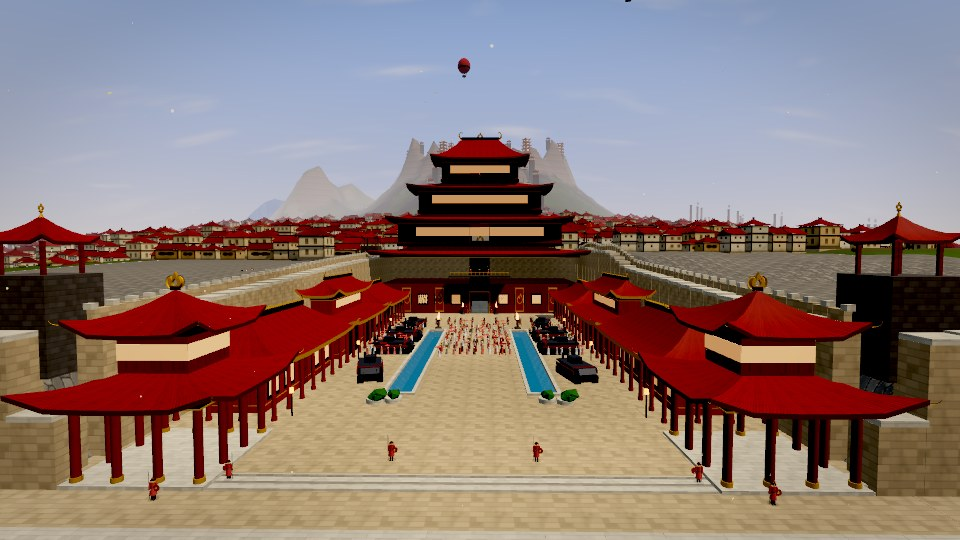
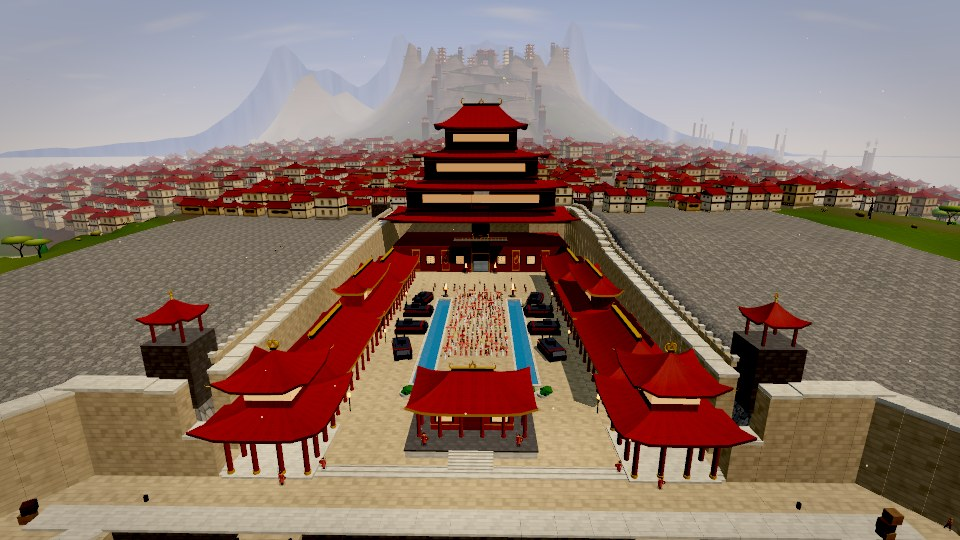
Fire Nation capital: match the reference frames more closely
- Royal Plaza: the smaller gatehouse on its stone platform is back at the harbour end between the
  gate pavilions (series frame); the rally crowd packs the central lane between the pools first,
  the side lanes only take the overflow
- The volcano: rock and ash only on the upper flanks under the peaks; the lower slopes stay green
  (series aerial of the crater)
- Life: children among civilians and workers (families in Zoryu Park, kids in the lanes); at dawn
  Hari Bulkan's nobles gather in the palace courtyard facing the entrance; stall keepers sweep at
  opening time; food carts stay out into the night; CONFIG.npcs now scales the whole cast and
  CONFIG.tanks documents the two-lane limit
- Screenshots re-shot: plaza from the harbour end with and without a rally, Zoryu Park, the
  switchback road, the Hari Bulkan overview; region-fire e2e 16/16

Claude-Session: https://claude.ai/code/session_01K1qhmqdEa64kNkhqVcSUWK

diff --git a/src/world/regions/fire/fnc/life.ts b/src/world/regions/fire/fnc/life.ts
@@ -346,13 +346,15 @@ export class CapitalLife {
     // Outer lanes at |t| 20.1: clear of the tanks' turning sweep (≤ 19.2) and the halls (21).
     const cols = [-20.1, -10, -5, 0, 5, 10, 20.1];
     const P = PLAZA;
+    // The gatehouse platform at the harbour end (18 × 15 m round the hall).
+    const inGatehouse = (t: number, s: number) => Math.abs(t) < P.gatehouse.w / 2 + 3.8 && s > P.gatehouse.s - P.gatehouse.d / 2 - 3.8 && s < P.gatehouse.s + P.gatehouse.d / 2 + 3.8;
     const inPool = (t: number, s: number) => Math.abs(t) > P.poolIn - 1.2 && Math.abs(t) < P.poolOut + 1.2 && s > P.poolS0 - 1.2 && s < P.poolS1 + 1.2;
     const grid = new Map<string, number>();
     const rows: number[] = [];
     for (let s = 560; s <= 652; s += 6) rows.push(s);
     for (const s of rows) {
       for (const t of cols) {
-        if (inPool(t, s)) continue;
+        if (inPool(t, s) || inGatehouse(t, s)) continue;
         const p = ax(t, s);
         const id = nav.addNode(p.x, p.z, T.street | T.square | T.patrol | Z.plaza, 0.4);
         this.width.set(id, Math.abs(t) > 20 ? 0.5 : 2.4);
@@ -532,6 +534,8 @@ export class CapitalLife {
       this.est.set(id, s > FNC.ringR + 1 ? Y : s > FNC.ringR - 2 ? gateY : gateY + (CY - gateY) * k);
     }
     for (const side of [-1, 1]) this.poi(ax(side * 4.5, 18).x, ax(side * 4.5, 18).z, T.square | Z.palace, side > 0 ? -Math.PI / 2 : Math.PI / 2, 6, CY);
+    // Dawn audience spots facing the palace entrance.
+    for (const t of [-5, -2.5, 0, 2.5, 5]) for (const s of [15, 19, 23]) this.poi(ax(t, s).x, ax(t, s).z, T.palace | Z.palace, Math.PI, 7, CY);
     void PF;
 
     // Zone node lists (street nodes only) for spawning.
@@ -620,6 +624,12 @@ export class CapitalLife {
       px: NaN, py: 0, pz: 0, pyaw: 0, goal: -1, gx: 0, gy: 0, gz: 0, gyaw: 0, toGoal: false, reloc: false, squad: -1, callT: 3 + r() * 8, greet: 0, delay: r() * 0.6, visible: false,
     };
     if (klass === 'noble' && r() < 0.3) a.scale *= 1.03;
+    if ((klass === 'civilian' || klass === 'worker') && (role === 'walker' || role === 'sitter') && r() < (zone === 'park' ? 0.4 : 0.16)) {
+      // A child: smaller, quicker, bareheaded or a little topknot.
+      a.scale = 0.6 + r() * 0.12;
+      a.speed = 1.3 + r() * 0.5;
+      a.acc = r() < 0.5 ? Acc.none : FAcc.topknot;
+    }
     return a;
   }
 
@@ -653,7 +663,8 @@ export class CapitalLife {
       const nodes = this.zoneNodes.get(zone)!;
       if (!nodes.length) continue;
       let guardK = 0;
-      for (const [role0, klass, count] of LIFE.cast[zone]) {
+      for (const [role0, klass, count0] of LIFE.cast[zone]) {
+        const count = Math.round((count0 * CONFIG.npcs) / 440);
         for (let k = 0; k < count; k++) {
           let role = role0;
           if (role === 'seller' && zone === 'market' && !sellers.length) role = 'shopper';
@@ -799,11 +810,10 @@ export class CapitalLife {
     const slots = this.rally.slots;
     for (const s of [576.5, 580]) for (let t = -13.5; t <= 13.51; t += 3) slots.push({ ...atAxis(t, s), y: PLAZA.y, yaw: Math.PI, troop: true });
     const civ: Array<{ t: number; s: number }> = [];
-    for (let s = 585; civ.length < LIFE.rally.crowd + 60 && s < 642; s += 2.3) {
-      for (let t = -6.25; t <= 6.26; t += 1.25) civ.push({ t, s });
-      if (s < 632) for (const side of [-1, 1]) for (let k = 0; k < 6; k++) civ.push({ t: side * (13.2 + k * 1.2), s });
-    }
-    civ.sort((a, b) => a.s - b.s);
+    for (let s = 584; s < 636.5; s += 1.75) for (let t = -6.3; t <= 6.31; t += 1.05) civ.push({ t, s });
+    // More than the central lane holds: the overflow lines the side lanes (tanks hold at the ends).
+    for (let s = 584; civ.length < LIFE.rally.crowd + 60 && s < 632; s += 2) for (const side of [-1, 1]) for (let k = 0; k < 5; k++) civ.push({ t: side * (13.4 + k * 1.3), s });
+    // (Central lane first, front rows first; the side lanes only take the overflow.)
     for (const c of civ) {
       const t = c.t + (r() - 0.5) * 0.3, s = c.s + (r() - 0.5) * 0.4;
       slots.push({ ...atAxis(t, s), y: PLAZA.y, yaw: Math.PI + (r() - 0.5) * 0.3, troop: false });
@@ -858,6 +868,13 @@ export class CapitalLife {
 
   private decide(a: Agent, h: number): void {
     if (a.role === 'sage' || a.squad >= 0 && this.squads[a.squad].members[0] !== a.i) return;
+    // Dawn: Hari Bulkan's nobles gather in the palace courtyard to glimpse the Royal Family.
+    if (a.klass === 'noble' && a.zone === 'caldera' && h >= 5.5 && h < 7.5 && a.stay < 0.6) {
+      a.roam = Z.caldera | Z.palace;
+      const spot = this.pick(a, [b(T.palace)], 400);
+      a.roam = ROAM.caldera;
+      if (spot >= 0 && this.nav.nodes[spot].tags & T.palace && this.go(a, spot)) return;
+    }
     if (!this.isOut(a, h)) {
       const home = this.pick(a, [b(T.home)], 140);
       if (home >= 0 && this.nav.nodes[home].tags & T.home && this.go(a, home)) {
@@ -907,6 +924,7 @@ export class CapitalLife {
 
   private isOut(a: Agent, h: number): boolean {
     if (a.role === 'patrol' || a.role === 'guard' || a.role === 'royal') return true;
+    if (a.acc === FAcc.foodCart && (h >= 17 || h < 1)) return true;
     return a.stay < activity(a.zone, h);
   }
 
@@ -924,8 +942,14 @@ export class CapitalLife {
       a.t = 30 + Math.random() * 50;
       return;
     }
-    const face = n.tags & (T.shop | T.stall | T.home | T.work | T.water | T.bench | T.school | T.temple);
+    const face = n.tags & (T.shop | T.stall | T.home | T.work | T.water | T.bench | T.school | T.temple | T.palace);
     if (face) a.yaw = n.yaw;
+    if (n.tags & T.palace) {
+      // The dawn audience: stand and wait for a glimpse of the Royal Family.
+      a.pose = Pose.idle;
+      a.t = 40 + Math.random() * 50;
+      return;
+    }
     if (a.role === 'sitter' && n.tags & (T.bench | T.water)) {
       a.pose = Pose.sit;
       a.t = 30 + Math.random() * 60;
@@ -1162,7 +1186,7 @@ export class CapitalLife {
         if (a.role === 'seller') {
           const open = h >= LIFE.shops[0] && h < LIFE.shops[1];
           a.visible = open;
-          a.pose = open && pl && Math.hypot(pl.x - a.x, pl.z - a.z) < 4 ? Pose.talk : Pose.idle;
+          a.pose = open && pl && Math.hypot(pl.x - a.x, pl.z - a.z) < 4 ? Pose.talk : open && h < LIFE.shops[0] + 1.2 ? Pose.sweep : Pose.idle;
         } else if (a.role === 'drill' || a.role === 'student') {
           // Posed (and shown or sent in for the night) by the formation update.
         } else {

diff --git a/src/world/regions/fire/fnc/plaza.ts b/src/world/regions/fire/fnc/plaza.ts
@@ -13,8 +13,8 @@ import { ballista, tank } from './machines';
  * head (the only way up into Harbor City, through the passage in the tower's base) to the gate
  * pavilions on the inner quay. Two long still pools run down its length either side of the
  * central avenue; long red-roofed colonnaded halls (barracks, tank bays) line both sides; the
- * cliff rims carry battlements and ballistae; two tiered gate pavilions flank the open harbour
- * end, so the view runs straight from the quay steps to the tower and its great insignia.
+ * cliff rims carry battlements and ballistae; the smaller gatehouse stands on its stone platform at
+ * the harbour end between two tiered gate pavilions; the great insignia crowns the tower's balcony.
  */
 
 const Y = PLAZA.y;
@@ -111,14 +111,23 @@ export function* buildPlaza(cap: Cap): Generator<unknown, void, unknown> {
   }
   yield;
 
-  // --- Gate pavilions at the harbour end.
+  // --- Gate pavilions and the gatehouse at the harbour end.
   for (const t of P.pavilions) gatePavilion(b, atAxis(t, P.pavilionS));
   // Steps from the inner quay up onto the plaza across its full width.
   {
     const a = atAxis(0, FNC.harbor.s0 + 1.6), c = atAxis(0, FNC.harbor.s0 - 0.6);
     b.stairs({ from: new THREE.Vector3(a.x, FNC.harbor.quayY, a.z), to: new THREE.Vector3(c.x, Y + 0.05, c.z), width: V.valleyHalf * 2 - 1, material: 'stone_light' });
   }
-  // (The axis stays open from the quay steps to the main tower, as in the series' harbour-end view.)
+  // The smaller gatehouse on its stone platform at the harbour end of the forum (series frame).
+  const G = P.gatehouse;
+  const gp = atAxis(G.t, G.s);
+  b.block('stone_light', { x: gp.x, y: Y, z: gp.z, sx: G.w + 6, sy: G.plat, sz: G.d + 6 }, { collide: true, walkable: true });
+  b.box('stone_dark', { x: gp.x, y: Y + G.plat - 0.1, z: gp.z, sx: G.w + 6.3, sy: 0.25, sz: G.d + 6.3 });
+  for (const dz of [-1, 1]) {
+    b.stairs({ from: new THREE.Vector3(gp.x, Y, gp.z + dz * ((G.d + 6) / 2 + 2.2)), to: new THREE.Vector3(gp.x, Y + G.plat, gp.z + dz * ((G.d + 6) / 2)), width: 6, material: 'stone_light' });
+  }
+  hall(b, { x: gp.x, y: Y + G.plat, z: gp.z, yaw: 0, w: G.w, d: G.d - 3, h: 4.6, veranda: 1.5, colSpacing: 3, roofMat: 'roof_red', horns: 1, crest: 1.2 });
+  cap.mark('gatehouse', gp.x, Y + G.plat, gp.z);
 
   // --- Shrubs at the near ends of the pools, braziers at the far ends, lamps and banners.
   for (const side of [-1, 1]) {

diff --git a/src/world/landforms/fireCapital.ts b/src/world/landforms/fireCapital.ts
@@ -70,15 +70,16 @@ export function atAxis(t: number, s: number): { x: number; z: number } {
 
 /** Volcano foot radius / height by bearing (wider and higher on the south, toward the city's heart). */
 /**
- * 0..1 on the volcano's own flanks — outside the crater lip and above Harbor City's foot: bare ash
- * and rock there, not grass (the renderer and footstep surfaces both read it via sampleTerrain).
+ * 0..1 on the volcano's upper flanks — just outside the crater lip, under the peaks: bare ash and rock
+ * there (the renderer and footstep surfaces both read it via sampleTerrain); lower slopes stay green.
  */
 export function capitalFlank(x: number, z: number): number {
   const dx = x - FNC.V.x, dz = z - FNC.V.z;
   const r = Math.hypot(dx, dz);
   if (r < FNC.lipR - 2 || r > FNC.footR.s + 4) return 0;
   const f = footR(Math.atan2(dz, dx) / DEG);
-  return sstep(FNC.lipR - 2, FNC.lipR + 6, r) * (1 - sstep(f - 12, f + 2, r));
+  // Rock up under the peaks; the lower slopes stay green (the series' aerial view of the crater).
+  return sstep(FNC.lipR - 2, FNC.lipR + 6, r) * (1 - sstep(FNC.lipR + 26, FNC.lipR + 68, r)) * (1 - sstep(f - 12, f + 2, r));
 }
 
 export function footR(phi: number): number {

diff --git a/src/world/regions/fire/fnc/layout.ts b/src/world/regions/fire/fnc/layout.ts
@@ -24,7 +24,8 @@ export const CONFIG = {
   rallyCrowd: 320,
   warships: 12,
   boats: 14,
-  tanks: 6,
+  /** Tundra tanks drilling in the plaza's side lanes (two lanes: up to 4 used). */
+  tanks: 4,
   balloons: 3,
 } as const;
 
@@ -62,7 +63,7 @@ export const PLAZA = {
   drill: { t: 0, s: 572, r: 13 },
   /** Main tower at the valley head; its passage climbs to the Royal Way. */
   tower: { s0: 530, s1: 557, half: 30, passHalf: FNC.plaza.passHalf, topS: FNC.plaza.passTopS },
-  /** Former gatehouse spot at the harbour end (the axis is kept open now); gate pavilions either side. */
+  /** Gatehouse on a stone platform at the harbour end, gate pavilions either side. */
   gatehouse: { t: 0, s: 646, w: 12, d: 9, plat: 1.4 },
   pavilions: [-26, 26] as number[],
   pavilionS: 652,
